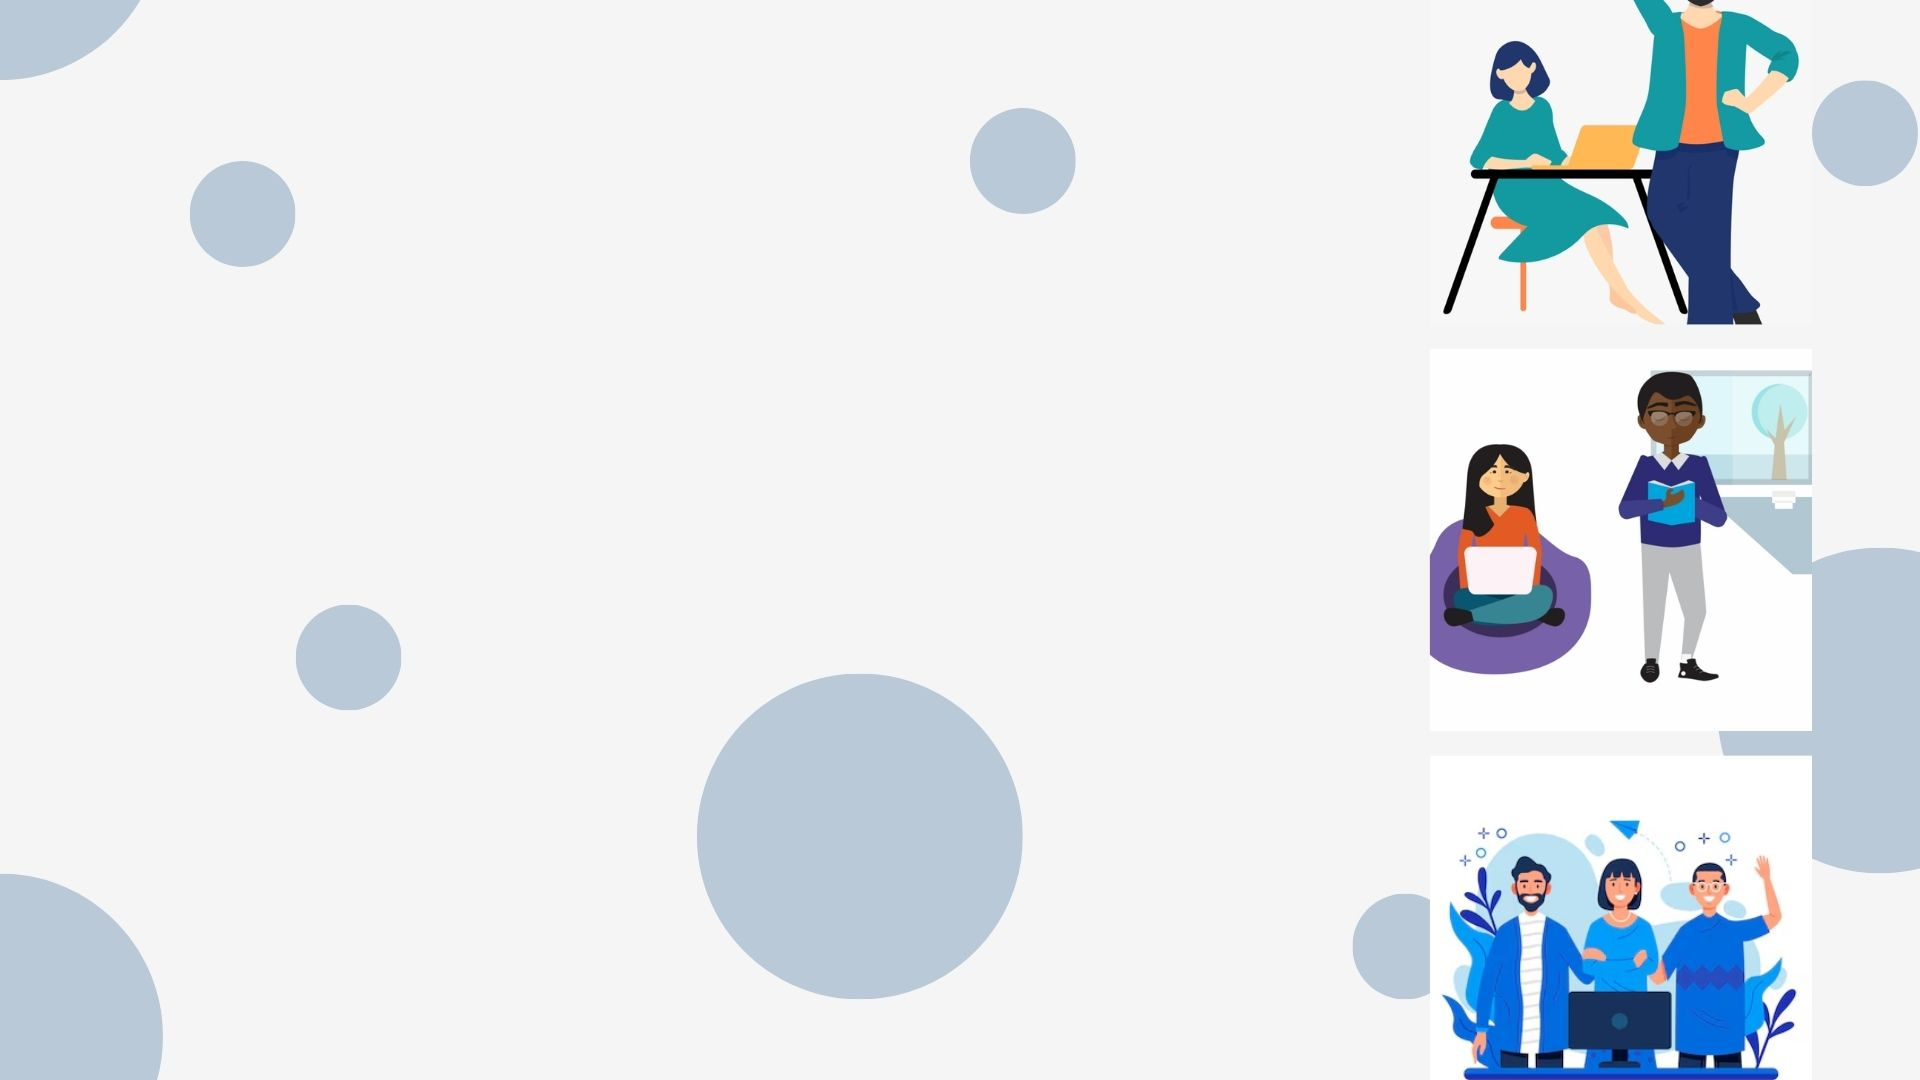
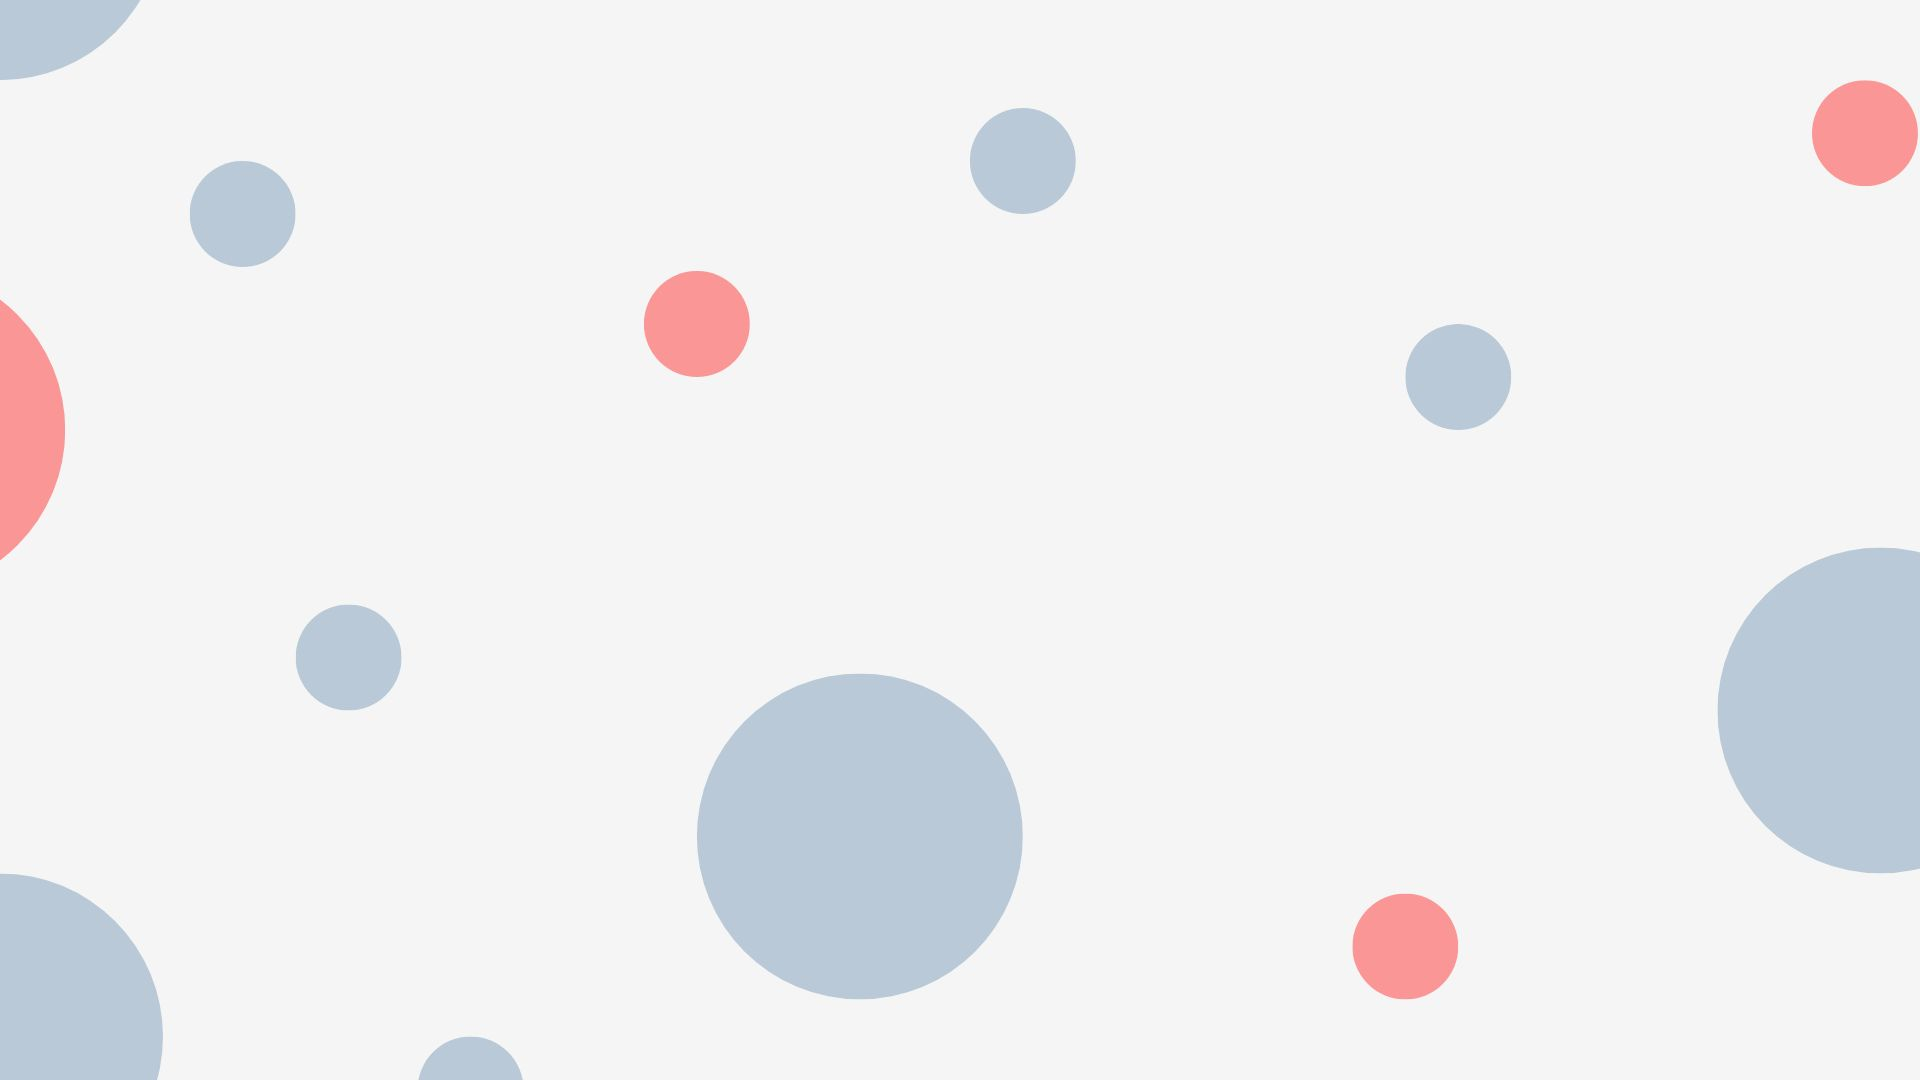
wag po i-open, magkaka-anak

diff --git a/UI_Manpower/resources/views/aboutus.blade.php b/UI_Manpower/resources/views/aboutus.blade.php
@@ -69,62 +69,146 @@
         </div>
     </nav>
 
-    <!-- Main Content -->
-    <div class="flex-grow">
-        <div class="container mx-auto py-8 flex flex-wrap items-center">
-            <!-- Left Side Image -->
-            <div class="w-full md:w-1/4 p-4">
-                <img src="left-image.jpg" alt="Left Image" class="w-full rounded-lg shadow-lg">
+  <!-- Main Content -->
+    <div class="flex-grow ">
+        <div class="container mx-auto py-8 flex flex-wrap items-center justify-center">
+
+            <!-- Left Side (Mission) 
+            <div class="bg-gray-200 rounded-lg w-full md:w-1/4 p-4">
+                <h2 class="text-2xl font-bold mb-2">Our Mission</h2>
+                <p class="text-gray-800 leading-relaxed">
+                   Sample text Sample text Sample text Sample text Sample text Sample text Sample text Sample text Sample text Sample text Sample text Sample text Sample text Sample text Sample text Sample text Sample text Sample text Sample text Sample text 
+                </p>
             </div>
+            -->
 
             <!-- Center Content -->
-            <div class="w-full md:w-1/2 p-4">
+            <div class="w-full md:w-1/2 p-4 border-2 ">
                 <h1 class="text-4xl font-bold text-center mb-4 text-gray-900">Welcome to Crewnnect!</h1>
                 <div class="max-w-lg mx-auto">
                     <p class="text-lg text-gray-800 leading-relaxed mb-4">
-                            We, "Crewnnect" is a revolutionary platform designed to revolutionize the job search process. Our mission is to seamlessly connect job seekers with employers, creating opportunities for meaningful employment and fostering professional growth. With our user-friendly interface and innovative features, we empower individuals to take control of their careers and find the perfect job match.
+                        We, "Crewnnect" is a revolutionary platform designed to revolutionize the job search process. Our mission is to seamlessly connect job seekers with employers, creating opportunities for meaningful employment and fostering professional growth. With our user-friendly interface and innovative features, we empower individuals to take control of their careers and find the perfect job match.
                     </p>
-                
                 </div>
 
-                <!-- What We Do Section -->
-                <div class="bg-gray-200 rounded-lg p-4 mt-8">
-                    <h2 class="text-2xl font-bold mb-2">What We Do</h2>
-                    <p>Still editing picture for chart</p>
-                    <!--<p class="text-gray-800 leading-relaxed">
-                        At Crewnnect, we provide a comprehensive platform for both job seekers and employers. Our services include:
-                    </p>
-                    <ul class="list-disc ml-4 mt-2">
-                        <li>Job Search and Matching</li>
-                        <li>Resume Building and Optimization</li>
-                        <li>Employer Recruitment Services</li>
-                        <li>Career Counseling and Guidance</li>
-                    </ul>
-                </div> -->
+                <style> 
+                    .carousel-container {
+                            position: absolute;
+                            z-index: 10;
+                        }
+                    .carousel {
+                        overflow: hidden;
+                        max-width: 300px; /* Set your desired width */
+                        margin: 0 auto;
+                        flex:1;
+                    }
+                    .carousel-inner {
+                        display: flex;
+                        transition: transform 0.5s ease;
+                    }
+                    .carousel-item {
+                        flex: 0 0 100%;
+                        max-width: 100%;
+                        width: 100%;
+                        height: 180px;
+                    }
+                </style>
 
-                <!-- Process Section -->
+                <script>
+                    document.addEventListener("DOMContentLoaded", function () {
+                        const carousel = document.querySelector('.carousel');
+                        const inner = document.querySelector('.carousel-inner');
+                        const items = document.querySelectorAll('.carousel-item');
+            
+                        let currentIndex = 0;
+                        const totalItems = items.length;
+                        const itemWidth = items[0].clientWidth;
+            
+                        function moveToIndex(index) {
+                            if (index < 0 || index >= totalItems) {
+                                currentIndex = index < 0 ? totalItems - 1 : 0;
+                            } else {
+                                currentIndex = index;
+                            }
+            
+                            const offset = -currentIndex * itemWidth;
+                            inner.style.transform = `translateX(${offset}px)`;
+                        }
+            
+                        function next() {
+                            moveToIndex(currentIndex + 1);
+                        }
+            
+                        function prev() {
+                            moveToIndex(currentIndex - 1);
+                        }
+            
+                        setInterval(next, 3000); // Auto play, change slide every 3 seconds
+                    });
+                </script>
+
+                <div class="carousel relative w-full shadow-md bg-white border-2 " style="background-image: url('{{url('images/carouselbg.jpg')}}'); background-size: cover;">
+                    <div class="carousel-inner flex " >
+
+                        <div class="carousel-item text-center " >
+                            <h2 class="text-2xl font-bold mb-2">Our Mission</h2>
+                            <p class="text-gray-800 leading-relaxed">
+                                 Sample text Sample text Sample text Sample text Sample text Sample text Sample text Sample text Sample text Sample text Sample text Sample text Sample text Sample text Sample text Sample text Sample text Sample text Sample text Sample text 
+                            </p>
+                        </div>
+
+                        <div class="carousel-item text-center">
+                            <h2 class="text-2xl font-bold mb-2">Our Vision</h2>
+                            <p class="text-gray-800 leading-relaxed">
+                                Sample text Sample text Sample text Sample text Sample text Sample text Sample text Sample text Sample text Sample text Sample text Sample text Sample text Sample text Sample text Sample text Sample text Sample text Sample text Sample text 
+                            </p>
+                            
+                        </div>
+                    </div>
+                </div>
+                
+   
+
+                <!-- Left Side (Mission) -->
+                <div class="bg-gray-200 rounded-lg w-full p-4 mt-8">
+                    <h2 class="text-2xl font-bold mb-2">Our Mission</h2>
+                    <p class="text-gray-800 leading-relaxed">
+                    Sample text Sample text Sample text Sample text Sample text Sample text Sample text Sample text Sample text Sample text Sample text Sample text Sample text Sample text Sample text Sample text Sample text Sample text Sample text Sample text 
+                    </p>
+                </div> 
+                
+                <!-- Right Side (Vision) -->
+                <div class="bg-gray-200 rounded-lg w-full p-4 mt-8">
+                    <h2 class="text-2xl font-bold mb-2">Our Vision</h2>
+                    <p class="text-gray-800 leading-relaxed">
+                    Sample text Sample text Sample text Sample text Sample text Sample text Sample text Sample text Sample text Sample text Sample text Sample text Sample text Sample text Sample text Sample text Sample text Sample text Sample text Sample text 
+                    </p>
+                </div>
+
+                <!-- Achievements Section -->
                 <div class="bg-gray-200 rounded-lg p-4 mt-8">
                     <h2 class="text-2xl font-bold mb-2">Our Process</h2>
-                    <p>Still editing picture for chart</p>
-                    <!--<p class="text-gray-800 leading-relaxed">
-                        Our process is simple and effective:
+                    <img src="{{url('images/process.png')}}" class="w-full h-62">
+                </div>
+
+                <!-- Call-to-Action Section -->
+                <div class="bg-gray-200 rounded-lg p-4 mt-8">
+                    <h2 class="text-2xl font-bold mb-2">Explore Job Listings</h2>
+                    <p class="text-gray-800 leading-relaxed">
+                        Ready to take the next step in your career? Browse through our latest job listings and find your perfect match today!
                     </p>
-                    <ol class="list-decimal ml-4 mt-2">
-                        <li>Sign up for an account</li>
-                        <li>Create or upload your resume</li>
-                        <li>Search for jobs or post job listings</li>
-                        <li>Connect with employers or job seekers</li>
-                        <li>Apply for jobs or review applicants</li>
-                    </ol>-->
+                    <div class="mt-4">
+                        <a href="#" class="bg-blue-500 hover:bg-blue-600 text-white font-bold py-2 px-4 rounded-full">Browse Job Listings</a>
+                    </div>
                 </div>
             </div>
 
-            <!-- Right Side Image -->
-            <div class="w-full md:w-1/4 p-4">
-                <img src="right-image.jpg" alt="Right Image" class="w-full rounded-lg shadow-lg">
-            </div>
+            
         </div>
     </div>
+
+
+
 
     <!-- Footer -->
     <footer class="bg-gray-800 text-white py-4 mt-auto">

diff --git a/UI_Manpower/routes/web.php b/UI_Manpower/routes/web.php
@@ -18,11 +18,10 @@ Route::get('/login', function () {
     return view('login');
 });
 
-<<<<<<< HEAD
 Route::get('/aboutus', function () {
     return view('aboutus');
-=======
+});
+
 Route::get('/applyNow', function () {
     return view('applyNow');
->>>>>>> 94a551cddb6463ffa8000e1351060d2810340e32
 });
